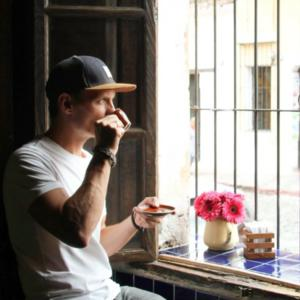
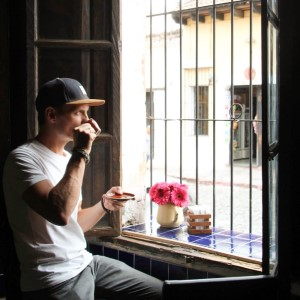
Changed the styling of the 4 slides in the carousel and they are done for now

diff --git a/main.html b/main.html
@@ -54,7 +54,7 @@
             <div class="row align-items-center">
                 <div class="col-5 offset-1 image-slide1">
                     <div class="slide-img2">
-                        <img class="img-fluid" src="./resources/images/lmo300x300.jpg" alt="">
+                        <img class="img-fluid" src="./resources/images/lmo330x330.PNG" alt="">
                     </div>
                 </div>
                 <div class="col-5 offset-1 content-slide1">
@@ -71,21 +71,21 @@
             <div class="row justify-content-around">
                 <div class="col-3 image-slide2">
                     <div class="slide-img2">
-                        <img class="img-fluid" src="./resources/images/ViewS337x225.jpg" alt="">
+                        <img class="img-fluid" src="./resources/images/ViewS380x263.png" alt="">
                     </div>
                 </div>
                 <div class="col-3 image-slide2">
                     <div class="slide-img2">
-                        <img class="img-fluid" src="./resources/images/ViewS337x225.jpg" alt="">
+                        <img class="img-fluid" src="./resources/images/ViewS380x263.png" alt="">
                     </div>
                 </div>
                 <div class="col-3 image-slide2">
                     <div class="slide-img2">
-                        <img class="img-fluid" src="./resources/images/ViewS337x225.jpg" alt="">
+                        <img class="img-fluid" src="./resources/images/ViewS380x263.png" alt="">
                     </div>
                 </div>
             </div>
-            <div class="row box-content justify-content-around">
+            <div class="row box2-content justify-content-around">
                 <div class="col-3">
                     <h3>How I work</h3>
                     <p>See more her</p>
@@ -105,7 +105,7 @@
             <div class="row align-items-center">
                 <div class="col-5 offset-1 image-slide3">
                     <div class="slide-img3">
-                        <img class="img-fluid" src="./resources/images/LMO/Cafedrik300x300.jpg" alt="">
+                        <img class="img-fluid" src="./resources/images/LMO/CoffeeFrames330x330.png" alt="">
                     </div>
                 </div>
                 <div class="col-6 content-slide3">
@@ -119,22 +119,22 @@
               <h2>WHAT HAS BEEN SAID ABOUT ME</h2>
             <div class="row justify-content-around">
                 <div class="col-4 image-slide4">
-                    <div class="slide-img4">
-                        <img class="img-fluid" src="./resources/images/charlotte190x190.jpg" alt="">
+                    <div class="slide-img">
+                        <img class="img-fluid" src="./resources/images/Charlotte.Frames240x240.png" alt="">
                     </div>
                 </div>
                 <div class="col-4 image-slide4">
-                    <div class="slide-img4">
-                        <img class="img-fluid" src="./resources/images/Adrian190x190.jpg" alt="">
+                    <div class="slide-img">
+                        <img class="img-fluid" src="./resources/images/Adrian.Frames240x240.png" alt="">
                     </div>
                 </div>
                 <div class="col-4 image-slide4">
-                    <div class="slide-img4">
-                        <img class="img-fluid" src="./resources/images/Adrian190x190.jpg" alt="">
+                    <div class="slide-img">
+                        <img class="img-fluid" src="./resources/images/Adrian.Frames240x240.png" alt="">
                     </div>
                 </div>
             </div>
-            <div class="row box-content justify-content-around">
+            <div class="row box4-content justify-content-between">
                 <div class="col-4">
                     <h3>Charlotte Bechmann</h3>
                     <p>See more her  sdf sf sdf <br>
@@ -148,7 +148,7 @@
                     </p>
                 </div>
                 <div class="col-4">
-                    <h3>John Doe</h3>
+                    <h3>John Doe Heymann</h3>
                     <p>See more her  sdf sf sdf <br>
                         dasfdegsd sdfsgd sdgss  <br>
                     </p>
@@ -156,6 +156,7 @@
             </div>
           </div>
         </div>
+        <!--        Carousel Controls       -->
         <a class="carousel-control-prev" href="#carouselExampleIndicators" role="button" data-slide="prev">
           <span class="carousel-control-prev-icon" aria-hidden="true"></span>
           <span class="sr-only">Previous</span>

diff --git a/resources/css/style.css b/resources/css/style.css
@@ -127,31 +127,6 @@ h2 {
     height: 100%;
 }
 
-.slide-img1 {
-    position: relative;
-    /* border: 5px solid hsla(360, 100%, 100%, 1); */
-    z-index: 2;
-}
-.slide-img1:before {
-    content: " ";
-    position: absolute;
-    z-index: 3;
-    top: 10%;
-    left: 10%;
-    right: -20%;
-    bottom: -20%;
-    border: 5px solid hsla(118, 83%, 16%, 1);
-}
-.slide-img1:after {
-    content: " ";
-    position: absolute;
-    z-index: -1;
-    top: -20%;
-    left: -20%;
-    right: 10%;
-    bottom: 10%;
-    border: 5px solid hsla(180, 2%, 45%, 1);
-}
 .content-slide1 {
     padding-right: 5rem;
     text-align: right;
@@ -161,35 +136,8 @@ h2 {
     padding-top: 8rem;
 }
 
-.slide-img2 {
-    position: relative;
-    /* border: 5px solid hsla(360, 100%, 100%, 1); */
-    z-index: 2;
-    margin: 0 1rem;
-}
-.slide-img2:before {
-    content: " ";
-    position: absolute;
-    z-index: 3;
-    top: 10%;
-    left: 10%;
-    right: -20%;
-    bottom: -20%;
-    border: 5px solid hsla(118, 83%, 16%, 1);
-    margin: 0 1rem;
-}
-.slide-img2:after {
-    content: " ";
-    position: absolute;
-    z-index: -1;
-    top: -20%;
-    left: -20%;
-    right: 10%;
-    bottom: 10%;
-    border: 5px solid hsla(180, 2%, 45%, 1);
-    margin: 0 1rem;
-}
-.box-content {
+
+.box2-content {
     padding-top: 4rem;
 }
 
@@ -210,31 +158,6 @@ h2 {
 .slide3 .row {
     height: 100%;
 }
-.slide-img3 {
-    position: relative;
-    /* border: 5px solid hsla(360, 100%, 100%, 1); */
-    z-index: 2;
-}
-.slide-img3:before {
-    content: " ";
-    position: absolute;
-    z-index: 3;
-    top: 10%;
-    left: 10%;
-    right: -20%;
-    bottom: -20%;
-    border: 5px solid hsla(118, 83%, 16%, 1);
-}
-.slide-img3:after {
-    content: " ";
-    position: absolute;
-    z-index: -1;
-    top: -20%;
-    left: -20%;
-    right: 10%;
-    bottom: 10%;
-    border: 5px solid hsla(180, 2%, 45%, 1);
-}
 .content-slide3 {
     padding-right: 5rem;
     text-align: right;
@@ -246,52 +169,24 @@ h2 {
     text-align: center
 }
 .slide4 h2 {
-    margin-bottom: 4rem;
+    margin-bottom: 2rem;
 }
 
-
-.slide-img4 {
-    position: relative;
-    /* border: 5px solid hsla(360, 100%, 100%, 1); */
-    z-index: 2;
-    margin: 0 1rem;
-}
-.slide-img4:before {
-    content: " ";
-    position: absolute;
-    z-index: 3;
-    top: 5%;
-    left: 15%;
-    right: 0%;
-    bottom: -10%;
-    border: 5px solid hsla(118, 83%, 16%, 1);
-    margin: 0 1rem;
-}
-.slide-img4:after {
-    content: " ";
-    position: absolute;
-    z-index: -1;
-    top: -10%;
-    left: 0%;
-    right: 15%;
-    bottom: 5%;
-    border: 5px solid hsla(180, 2%, 45%, 1);
-    margin: 0 1rem;
-}
-.box-content {  
-    padding: 1rem 0.5rem 0 0.5rem;
-}
-.box-content .col-3 p {
-    margin-left: 0rem;
+.box4-content {  
+    margin: 1rem 0 0 0;
     text-align: left;
 }
+.box4-content .col-4 {
+    padding-left: 6rem;
+}
 
 
+/* 
 @media only screen and (min-width: 1024px) {
-    .box-content .col-3 {
+    .box-content .col-4 {
         margin-left: -2.5rem;
     }
-}
+} */
 
 /*      Carousel Controls       */
 
